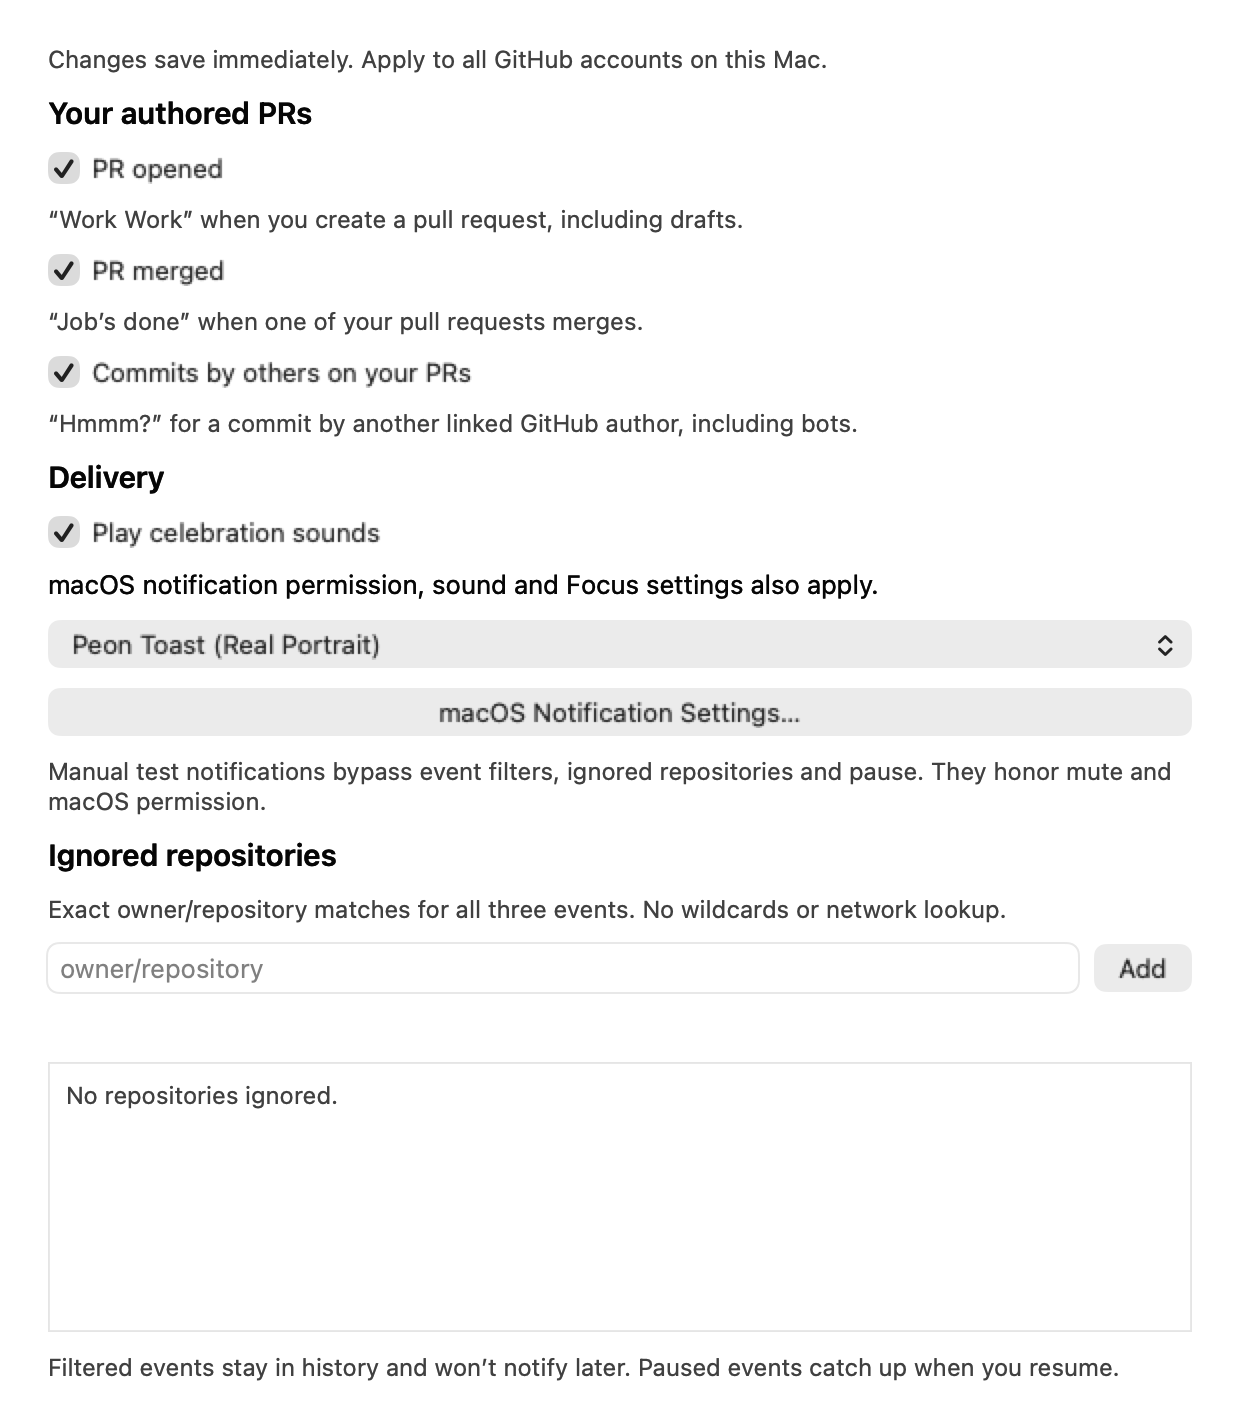
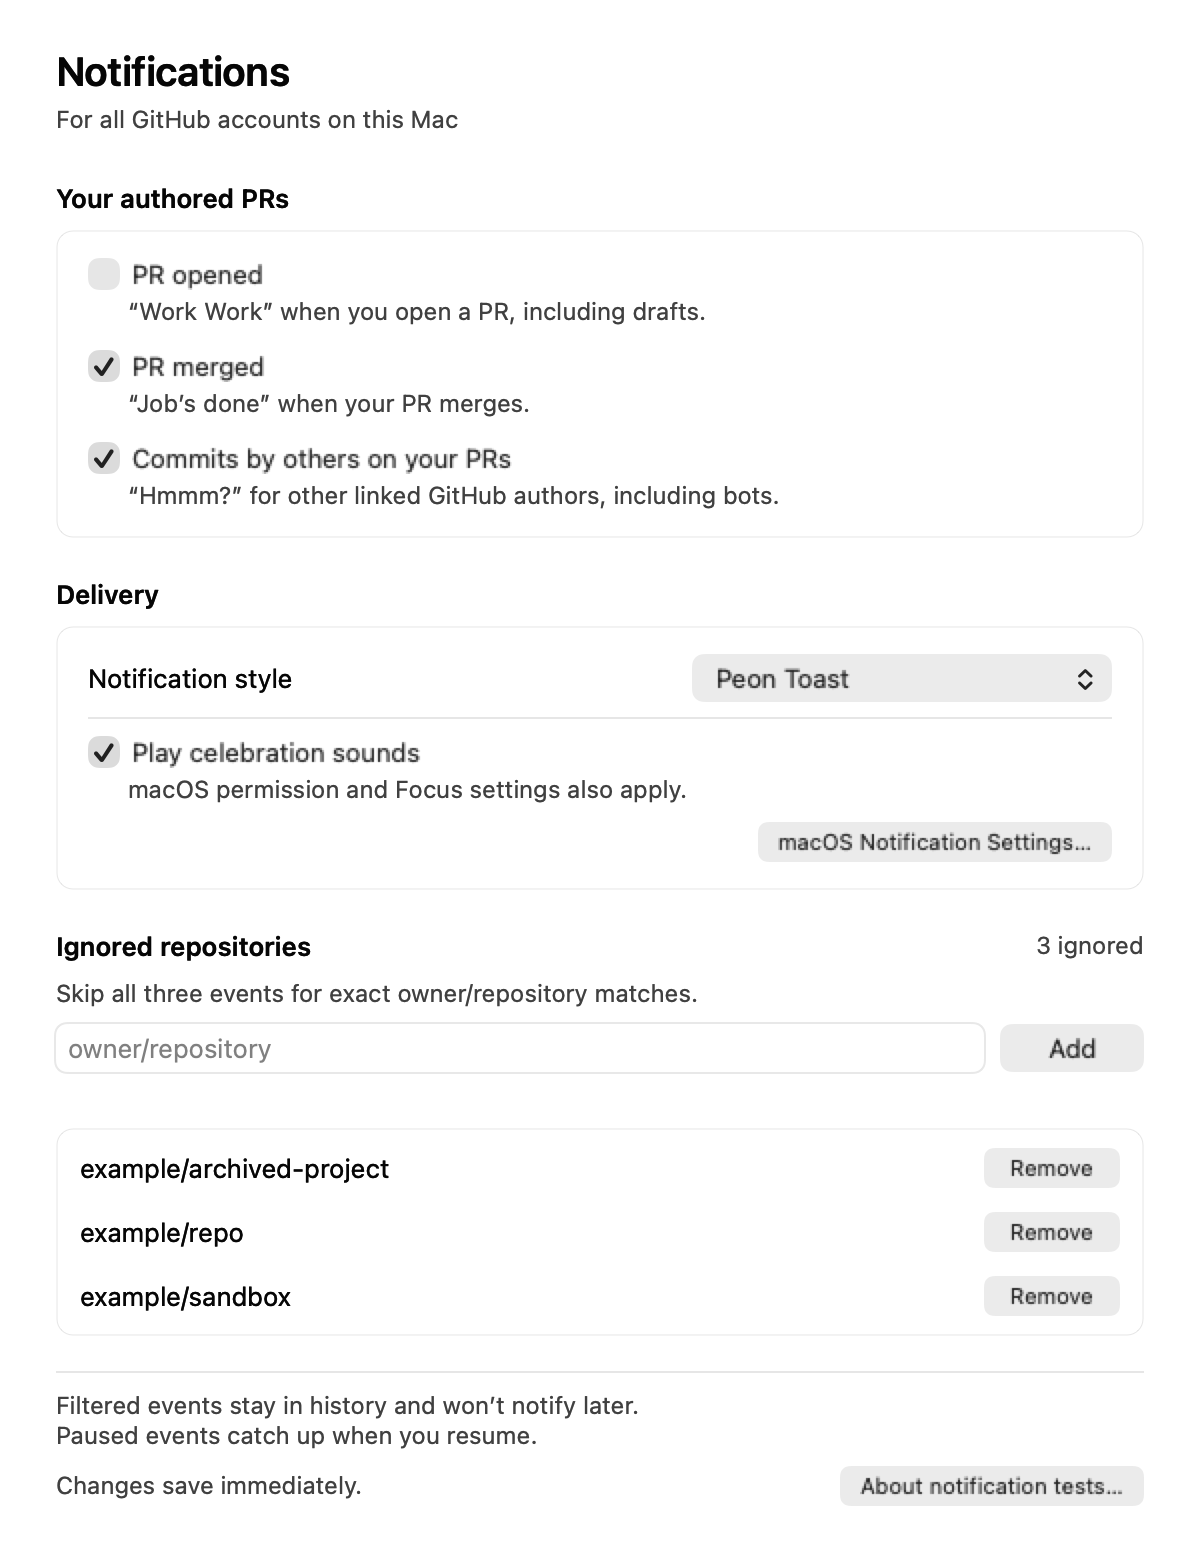
style(settings): redesign native notification preferences

diff --git a/Sources/NotificationSettings.swift b/Sources/NotificationSettings.swift
@@ -12,12 +12,14 @@ final class NotificationSettingsController: NSWindowController {
     private let repositoryField = NSTextField()
     private let errorLabel = NSTextField(wrappingLabelWithString: "")
     private let entries = RepositoryEntriesView()
+    private let repositoryCount = NSTextField(labelWithString: "")
+    private let emptyState = NSView()
     private var systemSoundAllowed = true
     private var displayedRepositories: [String]?
 
     init(preferences: NotificationPreferences) {
         self.preferences = preferences
-        let window = NSWindow(contentRect: NSRect(x: 0, y: 0, width: 620, height: 740), styleMask: [.titled, .closable, .miniaturizable], backing: .buffered, defer: false)
+        let window = NSWindow(contentRect: NSRect(x: 0, y: 0, width: 600, height: 760), styleMask: [.titled, .closable, .miniaturizable], backing: .buffered, defer: false)
         window.title = "Job’s Done Settings"
         window.isReleasedWhenClosed = false
         super.init(window: window)
@@ -37,7 +39,7 @@ final class NotificationSettingsController: NSWindowController {
     }
     private func label(_ text: String, heading: Bool = false) -> NSTextField {
         let label = NSTextField(wrappingLabelWithString: text)
-        label.font = .systemFont(ofSize: heading ? 15 : 12, weight: heading ? .semibold : .regular)
+        label.font = .systemFont(ofSize: heading ? 13 : 12, weight: heading ? .semibold : .regular)
         label.textColor = heading ? .labelColor : .secondaryLabelColor
         return label
     }
@@ -46,101 +48,209 @@ final class NotificationSettingsController: NSWindowController {
         let stack = NSStackView()
         stack.orientation = .vertical
         stack.alignment = .leading
-        stack.spacing = 10
+        stack.spacing = 8
         stack.translatesAutoresizingMaskIntoConstraints = false
         content.addSubview(stack)
         NSLayoutConstraint.activate([
-            stack.leadingAnchor.constraint(equalTo: content.leadingAnchor, constant: 24),
-            stack.trailingAnchor.constraint(equalTo: content.trailingAnchor, constant: -24),
-            stack.topAnchor.constraint(equalTo: content.topAnchor, constant: 22)
+            stack.leadingAnchor.constraint(equalTo: content.leadingAnchor, constant: 28),
+            stack.trailingAnchor.constraint(equalTo: content.trailingAnchor, constant: -28),
+            stack.topAnchor.constraint(equalTo: content.topAnchor, constant: 24)
         ])
         func add(_ view: NSView) {
             stack.addArrangedSubview(view)
             view.widthAnchor.constraint(equalTo: stack.widthAnchor).isActive = true
         }
-        add(label("Changes save immediately. Apply to all GitHub accounts on this Mac."))
+        func vertical(_ views: [NSView], spacing: CGFloat) -> NSStackView {
+            let group = NSStackView(views: views)
+            group.orientation = .vertical
+            group.alignment = .leading
+            group.spacing = spacing
+            return group
+        }
+        func surface(_ group: NSStackView) -> NSView {
+            let box = SettingsSurface()
+            let interior = box
+            group.translatesAutoresizingMaskIntoConstraints = false
+            interior.addSubview(group)
+            NSLayoutConstraint.activate([
+                group.leadingAnchor.constraint(equalTo: interior.leadingAnchor, constant: 16),
+                group.trailingAnchor.constraint(equalTo: interior.trailingAnchor, constant: -16),
+                group.topAnchor.constraint(equalTo: interior.topAnchor, constant: 14),
+                group.bottomAnchor.constraint(equalTo: interior.bottomAnchor, constant: -14)
+            ])
+            return box
+        }
+        func separator() -> NSBox {
+            let line = NSBox()
+            line.boxType = .separator
+            return line
+        }
+        let title = label("Notifications", heading: true)
+        title.font = .systemFont(ofSize: 20, weight: .semibold)
+        add(vertical([title, label("For all GitHub accounts on this Mac")], spacing: 4))
+        stack.setCustomSpacing(24, after: stack.arrangedSubviews.last!)
         add(label("Your authored PRs", heading: true))
+        var eventRows: [NSView] = []
         for (event, title, detail) in [
-            (NotificationEvent.opened, "PR opened", "“Work Work” when you create a pull request, including drafts."),
-            (.merged, "PR merged", "“Job’s done” when one of your pull requests merges."),
-            (.committed, "Commits by others on your PRs", "“Hmmm?” for a commit by another linked GitHub author, including bots.")
+            (NotificationEvent.opened, "PR opened", "“Work Work” when you open a PR, including drafts."),
+            (.merged, "PR merged", "“Job’s done” when your PR merges."),
+            (.committed, "Commits by others on your PRs", "“Hmmm?” for other linked GitHub authors, including bots.")
         ] {
             let button = NSButton(checkboxWithTitle: title, target: self, action: #selector(eventChanged(_:)))
+            button.font = .systemFont(ofSize: 13)
             button.identifier = NSUserInterfaceItemIdentifier(event.rawValue)
+            button.setAccessibilityHelp(detail)
             eventButtons[event] = button
-            add(button)
-            add(label(detail))
+            let detailLabel = label(detail)
+            let row = vertical([button, detailLabel], spacing: 3)
+            detailLabel.leadingAnchor.constraint(equalTo: row.leadingAnchor, constant: 20).isActive = true
+            eventRows.append(row)
         }
+        add(surface(vertical(eventRows, spacing: 12)))
+        stack.setCustomSpacing(20, after: stack.arrangedSubviews.last!)
         add(label("Delivery", heading: true))
-        soundButton.target = self
-        soundButton.action = #selector(soundChanged)
-        add(soundButton)
-        add(soundStatus)
-        style.addItems(withTitles: ["Peon Toast (Real Portrait)", "macOS Notification"])
+        style.addItems(withTitles: ["Peon Toast", "macOS Notification"])
         style.setAccessibilityLabel("Notification style")
         style.target = self
         style.action = #selector(styleChanged)
-        add(style)
-        add(NSButton(title: "macOS Notification Settings…", target: self, action: #selector(systemSettings)))
-        add(label("Manual test notifications bypass event filters, ignored repositories and pause. They honor mute and macOS permission."))
-        add(label("Ignored repositories", heading: true))
-        add(label("Exact owner/repository matches for all three events. No wildcards or network lookup."))
+        let styleLabel = label("Notification style")
+        styleLabel.font = .systemFont(ofSize: 13)
+        styleLabel.textColor = .labelColor
+        let styleRow = NSStackView(views: [styleLabel, NSView(), style])
+        styleRow.spacing = 12
+        style.widthAnchor.constraint(equalToConstant: 210).isActive = true
+        soundButton.target = self
+        soundButton.action = #selector(soundChanged)
+        soundButton.font = .systemFont(ofSize: 13)
+        soundStatus.font = .systemFont(ofSize: 12)
+        soundStatus.textColor = .secondaryLabelColor
+        soundStatus.maximumNumberOfLines = 1
+        soundStatus.heightAnchor.constraint(equalToConstant: 16).isActive = true
+        let soundRow = vertical([soundButton, soundStatus], spacing: 3)
+        soundStatus.leadingAnchor.constraint(equalTo: soundRow.leadingAnchor, constant: 20).isActive = true
+        let systemButton = NSButton(title: "macOS Notification Settings…", target: self, action: #selector(systemSettings))
+        systemButton.controlSize = .small
+        let systemRow = NSStackView(views: [NSView(), systemButton])
+        let delivery = vertical([styleRow, separator(), soundRow, systemRow], spacing: 8)
+        add(surface(delivery))
+        for row in [styleRow, soundRow, systemRow] {
+            row.widthAnchor.constraint(equalTo: delivery.widthAnchor).isActive = true
+        }
+        stack.setCustomSpacing(20, after: stack.arrangedSubviews.last!)
+        repositoryCount.font = .systemFont(ofSize: 12)
+        repositoryCount.textColor = .secondaryLabelColor
+        let repoHeading = NSStackView(views: [label("Ignored repositories", heading: true), NSView(), repositoryCount])
+        add(repoHeading)
+        add(label("Skip all three events for exact owner/repository matches."))
         repositoryField.placeholderString = "owner/repository"
         repositoryField.setAccessibilityLabel("Repository to ignore, owner slash repository")
+        repositoryField.setAccessibilityHelp("Enter an exact owner/repository. No URLs or wildcards. Press Return or Add.")
         repositoryField.target = self
         repositoryField.action = #selector(addRepository)
         let addButton = NSButton(title: "Add", target: self, action: #selector(addRepository))
+        addButton.widthAnchor.constraint(equalToConstant: 72).isActive = true
         let input = NSStackView(views: [repositoryField, addButton])
         input.spacing = 8
         repositoryField.setContentHuggingPriority(.defaultLow, for: .horizontal)
         add(input)
         errorLabel.textColor = .systemRed
         errorLabel.font = .systemFont(ofSize: 12)
+        errorLabel.maximumNumberOfLines = 1
         errorLabel.setAccessibilityLabel("Repository validation")
+        errorLabel.heightAnchor.constraint(equalToConstant: 16).isActive = true
         add(errorLabel)
+        stack.setCustomSpacing(6, after: input)
+        stack.setCustomSpacing(6, after: errorLabel)
         let scroll = NSScrollView()
         scroll.hasVerticalScroller = true
-        scroll.borderType = .bezelBorder
+        scroll.autohidesScrollers = true
+        scroll.borderType = .noBorder
+        scroll.drawsBackground = false
         entries.orientation = .vertical
         entries.alignment = .leading
-        entries.spacing = 6
-        entries.edgeInsets = NSEdgeInsets(top: 8, left: 8, bottom: 8, right: 8)
+        entries.spacing = 0
+        entries.edgeInsets = NSEdgeInsets(top: 4, left: 12, bottom: 4, right: 12)
         entries.translatesAutoresizingMaskIntoConstraints = false
         scroll.documentView = entries
         entries.widthAnchor.constraint(equalTo: scroll.contentView.widthAnchor).isActive = true
-        scroll.heightAnchor.constraint(equalToConstant: 135).isActive = true
-        add(scroll)
-        add(label("Filtered events stay in history and won’t notify later. Paused events catch up when you resume."))
+        let list = SettingsSurface()
+        scroll.translatesAutoresizingMaskIntoConstraints = false
+        let listInterior = list
+        listInterior.addSubview(scroll)
+        NSLayoutConstraint.activate([
+            scroll.leadingAnchor.constraint(equalTo: listInterior.leadingAnchor),
+            scroll.trailingAnchor.constraint(equalTo: listInterior.trailingAnchor),
+            scroll.topAnchor.constraint(equalTo: listInterior.topAnchor),
+            scroll.bottomAnchor.constraint(equalTo: listInterior.bottomAnchor)
+        ])
+        list.heightAnchor.constraint(equalToConstant: 104).isActive = true
+        add(list)
+        emptyState.translatesAutoresizingMaskIntoConstraints = false
+        list.addSubview(emptyState)
+        let emptyTitle = label("No repositories ignored", heading: true)
+        let emptyDetail = label("Events from all repositories are included.")
+        let emptyCopy = vertical([emptyTitle, emptyDetail], spacing: 5)
+        emptyCopy.alignment = .centerX
+        emptyCopy.translatesAutoresizingMaskIntoConstraints = false
+        emptyState.addSubview(emptyCopy)
+        NSLayoutConstraint.activate([
+            emptyState.leadingAnchor.constraint(equalTo: list.leadingAnchor),
+            emptyState.trailingAnchor.constraint(equalTo: list.trailingAnchor),
+            emptyState.topAnchor.constraint(equalTo: list.topAnchor),
+            emptyState.bottomAnchor.constraint(equalTo: list.bottomAnchor),
+            emptyCopy.centerXAnchor.constraint(equalTo: emptyState.centerXAnchor),
+            emptyCopy.centerYAnchor.constraint(equalTo: emptyState.centerYAnchor)
+        ])
+        stack.setCustomSpacing(18, after: list)
+        add(separator())
+        add(label("Filtered events stay in history and won’t notify later.\nPaused events catch up when you resume."))
+        let saved = label("Changes save immediately.")
+        let help = NSButton(title: "About notification tests…", target: self, action: #selector(aboutTests))
+        help.bezelStyle = .rounded
+        help.controlSize = .small
+        add(NSStackView(views: [saved, NSView(), help]))
         content.layoutSubtreeIfNeeded()
-        window?.setContentSize(NSSize(width: 620, height: stack.fittingSize.height + 44))
+        window?.setContentSize(NSSize(width: 600, height: stack.fittingSize.height + 48))
         window?.initialFirstResponder = repositoryField
+    }
+    @objc private func aboutTests() {
+        guard let window else { return }
+        let alert = NSAlert()
+        alert.messageText = "About notification tests"
+        alert.informativeText = "Manual test notifications bypass event filters, ignored repositories and pause. They honor mute and macOS permission."
+        alert.addButton(withTitle: "Done")
+        alert.beginSheetModal(for: window)
     }
     func refresh(systemSoundAllowed: Bool? = nil) {
         if let systemSoundAllowed { self.systemSoundAllowed = systemSoundAllowed }
         for (event, button) in eventButtons { button.state = preferences.isEnabled(event) ? .on : .off }
         soundButton.state = preferences.soundEnabled ? .on : .off
-        soundStatus.stringValue = self.systemSoundAllowed ? "macOS notification permission, sound and Focus settings also apply." : "Sound is disabled in macOS. Enable it in macOS Notification Settings to hear alerts."
+        soundStatus.stringValue = self.systemSoundAllowed ? "macOS permission and Focus settings also apply." : "Sound is disabled in macOS. Enable it in Notification Settings."
         style.selectItem(at: preferences.nativeNotifications ? 1 : 0)
         let repositories = preferences.ignoredRepositories
         guard displayedRepositories != repositories else { return }
         displayedRepositories = repositories
         for view in entries.arrangedSubviews { entries.removeArrangedSubview(view); view.removeFromSuperview() }
-        if repositories.isEmpty {
-            entries.addArrangedSubview(label("No repositories ignored."))
-        }
+        repositoryCount.stringValue = "\(repositories.count) ignored"
+        emptyState.isHidden = !repositories.isEmpty
         for repo in repositories {
             let name = NSTextField(labelWithString: repo)
+            name.font = .systemFont(ofSize: 13)
             name.lineBreakMode = .byTruncatingMiddle
             name.toolTip = repo
             name.setAccessibilityLabel(repo)
             name.setContentCompressionResistancePriority(.defaultLow, for: .horizontal)
             let remove = NSButton(title: "Remove", target: self, action: #selector(removeRepository(_:)))
+            remove.controlSize = .small
+            remove.widthAnchor.constraint(equalToConstant: 68).isActive = true
             remove.identifier = NSUserInterfaceItemIdentifier(repo)
             remove.setAccessibilityLabel("Remove \(repo)")
-            let row = NSStackView(views: [name, remove])
+            let row = NSStackView(views: [name, NSView(), remove])
             row.spacing = 8
+            row.distribution = .fill
+            row.heightAnchor.constraint(equalToConstant: 32).isActive = true
             entries.addArrangedSubview(row)
-            row.widthAnchor.constraint(equalTo: entries.widthAnchor, constant: -16).isActive = true
+            row.widthAnchor.constraint(equalTo: entries.widthAnchor, constant: -24).isActive = true
             name.setContentHuggingPriority(.defaultLow, for: .horizontal)
         }
     }
@@ -155,7 +265,9 @@ final class NotificationSettingsController: NSWindowController {
     @objc private func systemSettings() { openSystemSettings?() }
     @objc private func addRepository() {
         let error = preferences.addRepository(repositoryField.stringValue)
-        errorLabel.stringValue = error ?? ""
+        errorLabel.stringValue = error.map { $0.contains("already ignored") ? "This repository is already ignored." : "Enter owner/repository without a URL or wildcard." } ?? ""
+        errorLabel.toolTip = error
+        errorLabel.setAccessibilityHelp(error)
         repositoryField.setAccessibilityHelp(error ?? "Enter an exact owner/repository, then press Return or Add.")
         if let error {
             NSAccessibility.post(element: repositoryField, notification: .announcementRequested, userInfo: [.announcement: error, .priority: NSAccessibilityPriorityLevel.high.rawValue])
@@ -169,6 +281,8 @@ final class NotificationSettingsController: NSWindowController {
         guard let repo = sender.identifier?.rawValue else { return }
         preferences.removeRepository(repo)
         errorLabel.stringValue = ""
+        errorLabel.toolTip = nil
+        errorLabel.setAccessibilityHelp(nil)
         repositoryField.setAccessibilityHelp("Enter an exact owner/repository, then press Return or Add.")
         changed()
         window?.makeFirstResponder(repositoryField)
@@ -177,4 +291,15 @@ final class NotificationSettingsController: NSWindowController {
 
 private final class RepositoryEntriesView: NSStackView {
     override var isFlipped: Bool { true }
+}
+
+private final class SettingsSurface: NSView {
+    override func draw(_ dirtyRect: NSRect) {
+        let path = NSBezierPath(roundedRect: bounds.insetBy(dx: 0.5, dy: 0.5), xRadius: 8, yRadius: 8)
+        NSColor.controlBackgroundColor.setFill()
+        path.fill()
+        NSColor.separatorColor.setStroke()
+        path.lineWidth = 0.5
+        path.stroke()
+    }
 }
